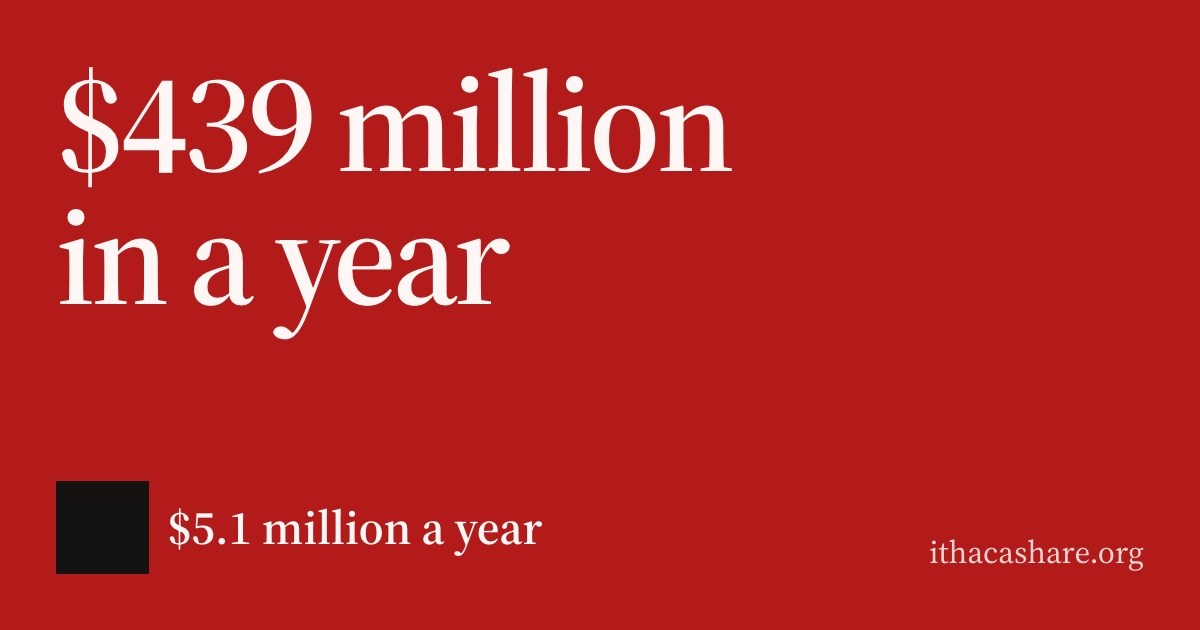
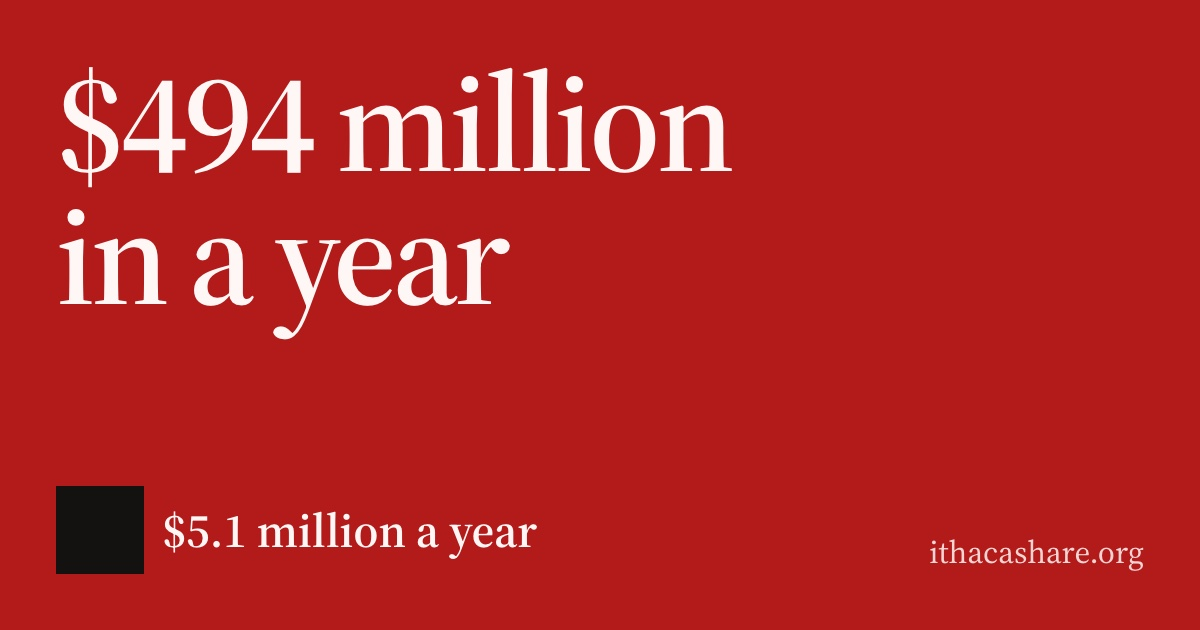
Update to fiscal 2026: Cornell's $13.6B endowment and $494M payout, Yale and Princeton endowments, option now about $2.4M; 2027 city budget adopted; county review still under way, lapsed permit moratorium removed; trustees' November 6 statement on victim advocates

Changed region(s): [[0.0308, 0.754, 0.4625, 0.9048], [0.1542, 0.1206, 0.2775, 0.2714]]

diff --git a/public/wastewater/index.html b/public/wastewater/index.html
@@ -2,11 +2,11 @@
 <html lang="en">
 <head>
   <title>Ithaca Share: Cornell and Ithaca’s wastewater plant</title>
-  <meta name="description" content="In fiscal 2025 Cornell’s endowment paid out $439 million. Cornell’s voluntary payments to Ithaca governments are about $5.1 million a year, drawn to the same scale.">
-  <meta name="updated" content="October 23, 2026">
+  <meta name="description" content="In fiscal 2026 Cornell’s endowment paid out $494 million. Cornell’s voluntary payments to Ithaca governments are about $5.1 million a year, drawn to the same scale.">
+  <meta name="updated" content="November 10, 2026">
   <link rel="canonical" href="https://ithacashare.org/wastewater/">
-  <meta property="og:image" content="https://ithacashare.org/wastewater/og.jpg?v=8">
-  <meta property="og:image:alt" content="A red field for $439 million paid out in fiscal 2025 with a black square, drawn to scale, for $5.1 million a year.">
+  <meta property="og:image" content="https://ithacashare.org/wastewater/og.jpg?v=9">
+  <meta property="og:image:alt" content="A red field for $494 million paid out in fiscal 2026 with a black square, drawn to scale, for $5.1 million a year.">
 </head>
 <body>
   <nav data-include="nav"></nav>
@@ -16,22 +16,22 @@
       <figure class="poster">
         <div>
           <h1>
-            $439&nbsp;million in a year.<sup class="fn"><a href="#s9" aria-label="Source 9: Cornell University statement, October 28, 2025">9</a></sup><br>
+            $494&nbsp;million in a year.<sup class="fn"><a href="#s9" aria-label="Source 9: Cornell University statement, October 29, 2026">9</a></sup><br>
             No wastewater plant.<sup class="fn"><a href="#s1" aria-label="Source 1: Cornell Environment, Health and Safety">1</a></sup>
           </h1>
-          <p class="poster-sub">Paid out by Cornell’s $11.8&nbsp;billion endowment in fiscal&nbsp;2025.</p>
+          <p class="poster-sub">Paid out by Cornell’s $13.6&nbsp;billion endowment in fiscal&nbsp;2026.</p>
         </div>
         <div class="poster-foot">
           <div class="poster-dot" aria-hidden="true"></div>
           <p><span class="long">This square, at the same scale, is the $5.1&nbsp;million a year Cornell pays Ithaca’s city, town, and schools.</span><span class="short">$5.1&nbsp;million a year, same scale</span></p>
         </div>
         <figcaption class="sr-only">
-          A red square for the $439&nbsp;million Cornell’s endowment paid out in fiscal&nbsp;2025, and a black
-          square about 1/86 of its area for the $5.1&nbsp;million a year Cornell pays Ithaca’s city, town,
+          A red square for the $494&nbsp;million Cornell’s endowment paid out in fiscal&nbsp;2026, and a black
+          square about 1/97 of its area for the $5.1&nbsp;million a year Cornell pays Ithaca’s city, town,
           and schools.
         </figcaption>
       </figure>
-      <p class="poster-note">Paid out by Cornell’s $11.8&nbsp;billion endowment in fiscal&nbsp;2025. The black square, at the same scale, is the $5.1&nbsp;million a year Cornell pays Ithaca’s city, town, and schools.</p>
+      <p class="poster-note">Paid out by Cornell’s $13.6&nbsp;billion endowment in fiscal&nbsp;2026. The black square, at the same scale, is the $5.1&nbsp;million a year Cornell pays Ithaca’s city, town, and schools.</p>
       <div class="print-only print-qr">
         <img src="/wastewater/qr.svg" alt="" width="96" height="96">
         <span>ithacashare.org/wastewater</span>
@@ -39,10 +39,10 @@
     </div>
 
     <div class="column">
-      <p class="ask"><strong>One option:</strong> about $2.9&nbsp;million a year more from Cornell, for the plant’s repairs. That would bring Cornell’s payments to Yale’s share of endowment.<sup class="fn"><a href="#s15" aria-label="Source 15: Calculation">15</a></sup></p>
+      <p class="ask"><strong>One option:</strong> about $2.4&nbsp;million a year more from Cornell, for the plant’s repairs. That would bring Cornell’s payments to Yale’s share of endowment.<sup class="fn"><a href="#s15" aria-label="Source 15: Calculation">15</a></sup></p>
       <p class="cta">
         <a class="button" data-write href="mailto:council@cityofithaca.org">Write to Common Council</a>
-        <span>Budget vote: November&nbsp;4, 2026.<sup class="fn"><a href="#s3" aria-label="Source 3: Ithaca Times, October 12, 2026">3</a></sup></span>
+        <span>Common Council adopted the 2027 budget on November&nbsp;4, 2026.<sup class="fn"><a href="#s3" aria-label="Source 3: City of Ithaca, November 5, 2026">3</a></sup></span>
       </p>
 
 
@@ -63,9 +63,9 @@
             <tr><th scope="col">University</th><th scope="col">Local payment</th><th scope="col">Share of endowment</th></tr>
           </thead>
           <tbody>
-            <tr class="yale"><th scope="row">Yale</th><td data-label="Local payment">$30M of $44.1B<sup class="fn"><a href="#s7" aria-label="Source 7: Yale News, March 6, 2026">7</a>,<a href="#s8" aria-label="Source 8: Yale News, October 24, 2025">8</a></sup></td><td data-label="Share"><span class="bar"></span>0.07%</td></tr>
-            <tr class="cornell this"><th scope="row">Cornell</th><td data-label="Local payment">$5.1M of $11.8B<sup class="fn"><a href="#s4" aria-label="Source 4: Cornell Chronicle, October 13, 2023">4</a>,<a href="#s5" aria-label="Source 5: Cornell Chronicle, January 22, 2026">5</a>,<a href="#s6" aria-label="Source 6: Cornell Chronicle, June 25, 2024">6</a>,<a href="#s9" aria-label="Source 9: Cornell University statement, October 28, 2025">9</a></sup></td><td data-label="Share"><span class="bar"></span>0.04%</td></tr>
-            <tr class="princeton"><th scope="row">Princeton</th><td data-label="Local payment">$5.9M of $36.4B<sup class="fn"><a href="#s10" aria-label="Source 10: Princeton University, March 26, 2026">10</a>,<a href="#s11" aria-label="Source 11: Princeton Alumni Weekly">11</a></sup></td><td data-label="Share"><span class="bar"></span>0.02%</td></tr>
+            <tr class="yale"><th scope="row">Yale</th><td data-label="Local payment">$30M of $54.5B<sup class="fn"><a href="#s7" aria-label="Source 7: Yale News, March 6, 2026">7</a>,<a href="#s8" aria-label="Source 8: Yale News, October 27, 2026">8</a></sup></td><td data-label="Share"><span class="bar"></span>0.055%</td></tr>
+            <tr class="cornell this"><th scope="row">Cornell</th><td data-label="Local payment">$5.1M of $13.6B<sup class="fn"><a href="#s4" aria-label="Source 4: Cornell Chronicle, October 13, 2023">4</a>,<a href="#s5" aria-label="Source 5: Cornell Chronicle, January 22, 2026">5</a>,<a href="#s6" aria-label="Source 6: Cornell Chronicle, June 25, 2024">6</a>,<a href="#s9" aria-label="Source 9: Cornell University statement, October 29, 2026">9</a></sup></td><td data-label="Share"><span class="bar"></span>0.037%</td></tr>
+            <tr class="princeton"><th scope="row">Princeton</th><td data-label="Local payment">$5.9M of $42.3B<sup class="fn"><a href="#s10" aria-label="Source 10: Princeton University, March 26, 2026">10</a>,<a href="#s11" aria-label="Source 11: Princeton Alumni Weekly, October 16, 2026">11</a></sup></td><td data-label="Share"><span class="bar"></span>0.014%</td></tr>
           </tbody>
         </table>
       </section>
@@ -83,10 +83,10 @@
           <dd>It says it spends more than $30&nbsp;million a year on community priorities, counting these payments, TCAT buses, housing, nonprofits, and campus services.<sup class="fn"><a href="#s6" aria-label="Source 6: Cornell Chronicle, June 25, 2024">6</a></sup> Cornell is one of TCAT’s three equal funding partners, and TCAT staff have said 70% of riders are tied to Cornell.<sup class="fn"><a href="#s16" aria-label="Source 16: Ithaca Times, February 15, 2023">16</a></sup></dd>
 
           <dt>Isn’t the endowment restricted?</dt>
-          <dd>Mostly. $1.8&nbsp;billion has no donor restrictions.<sup class="fn"><a href="#s12" aria-label="Source 12: Cornell University Consolidated Financial Statements, fiscal 2025">12</a></sup></dd>
+          <dd>Mostly. $2.0&nbsp;billion has no donor restrictions.<sup class="fn"><a href="#s12" aria-label="Source 12: Cornell University Consolidated Financial Statements, fiscal 2026">12</a></sup></dd>
 
           <dt>How big is the ask next to Cornell’s money?</dt>
-          <dd>The whole $100&nbsp;million repair is under a quarter of one year’s endowment payout.<sup class="fn"><a href="#s2" aria-label="Source 2: The Ithaca Voice, August 18, 2025">2</a>,<a href="#s9" aria-label="Source 9: Cornell University statement, October 28, 2025">9</a></sup> The extra $2.9&nbsp;million a year is about two and a half days of that payout.<sup class="fn"><a href="#s15" aria-label="Source 15: Calculation">15</a></sup> Cornell’s fundraising campaign closed in June at nearly $6.8&nbsp;billion in gifts and commitments, $1.1&nbsp;billion of it in the final year.<sup class="fn"><a href="#s17" aria-label="Source 17: Cornell Chronicle, August 27, 2026">17</a></sup></dd>
+          <dd>The whole $100&nbsp;million repair is about a fifth of one year’s endowment payout.<sup class="fn"><a href="#s2" aria-label="Source 2: The Ithaca Voice, August 18, 2025">2</a>,<a href="#s9" aria-label="Source 9: Cornell University statement, October 29, 2026">9</a></sup> The extra $2.4&nbsp;million a year is under two days of that payout.<sup class="fn"><a href="#s15" aria-label="Source 15: Calculation">15</a></sup> Cornell’s fundraising campaign closed in June 2026 at nearly $6.8&nbsp;billion in gifts and commitments, $1.1&nbsp;billion of it in the final year.<sup class="fn"><a href="#s17" aria-label="Source 17: Cornell Chronicle, August 27, 2026">17</a></sup></dd>
 
           <dt>What would Cornell owe if its city property were taxed?</dt>
           <dd>About $15.5 to $32.5&nbsp;million a year.<sup class="fn"><a href="#s13" aria-label="Source 13: The Ithacan, October 4, 2023">13</a></sup> Boston asks large nonprofits for 25% of what they’d owe. For Cornell, that would be about $8.25&nbsp;million a year to the city.<sup class="fn"><a href="#s16" aria-label="Source 16: Ithaca Times, February 15, 2023">16</a></sup></dd>
@@ -101,8 +101,9 @@
 
       <section class="secondary">
         <h2>Method</h2>
-        <p>The squares compare one year to one year, using the city’s base payment before inflation and the school district’s $650,000 base before its scheduled increases, so Cornell’s payments this year are somewhat higher than $5.1&nbsp;million. Every source has an archived copy.</p>
+        <p>The squares compare one year to one year, using the city’s base payment before inflation and the school district’s $650,000 base before its scheduled increases, so Cornell’s payments in 2026 are somewhat higher than $5.1&nbsp;million. Every source has an archived copy except sources 3, 9, and 12.</p>
         <h3>Corrections</h3>
+        <p>November&nbsp;10, 2026: Updated to fiscal&nbsp;2026 figures: Cornell’s endowment, $13.6&nbsp;billion, and its payout, $494&nbsp;million (source&nbsp;9); Yale’s endowment, $54.5&nbsp;billion (source&nbsp;8); Princeton’s, $42.3&nbsp;billion (source&nbsp;11); and Cornell’s funds without donor restrictions, $2.0&nbsp;billion (source&nbsp;12). The option fell from about $2.9&nbsp;million to about $2.4&nbsp;million a year, because Yale’s endowment grew faster than Cornell’s. Replaced the budget vote date with the result (source&nbsp;3).</p>
         <p>October&nbsp;23, 2026: Removed “so a gift from Cornell would lower it for everyone,” a prediction, and “can’t fund salaries or operations,” which had no source.</p>
         <p>October&nbsp;19, 2026: Noted that the $5.1&nbsp;million uses base amounts, and that Cornell’s school payment has risen since January 2026 (source&nbsp;5). Removed “Fees don’t cover the plant’s repairs,” which had no source; source&nbsp;2 says the repair bill goes to ratepayers. Removed the claim that Cornell pays a third of TCAT’s cost, since Cornell also pays fares on top of its partner share. Attributed the $2.6&nbsp;million fees figure to Cornell’s own report.</p>
       </section>
@@ -119,8 +120,8 @@
             <a class="link" href="https://ithacavoice.org/2025/08/local-officials-planned-to-invest-100m-into-ithacas-aging-wastewater-plant-one-meeting-with-state-regulators-may-have-doubled-that/#:~:text=planned%20to%20invest%20%24100M">The Ithaca Voice, August 18, 2025</a><span class="nowrap">&nbsp;· <a class="archived" href="https://web.archive.org/web/20261017010158/https://ithacavoice.org/2025/08/local-officials-planned-to-invest-100m-into-ithacas-aging-wastewater-plant-one-meeting-with-state-regulators-may-have-doubled-that/" aria-label="Archived copy: The Ithaca Voice, August 18, 2025">archived</a></span>
           </li>
           <li id="s3">
-            <p>Capital plan October&nbsp;20, 2026; council discussion October&nbsp;28; budget vote November&nbsp;4.</p>
-            <a class="link" href="https://www.ithaca.com/news/ithaca-city-officials-unveil-proposed-2027-budget-close-8m-deficit-under-state-tax-cap/article_6fb6fc7a-166f-44af-a2ed-c47c57e71c59.html#:~:text=Capital%20Improvement%20Plan%20will%20be%20presented">Ithaca Times, October&nbsp;12, 2026</a><span class="nowrap">&nbsp;· <a class="archived" href="https://web.archive.org/web/20261017011618/https://www.ithaca.com/news/ithaca-city-officials-unveil-proposed-2027-budget-close-8m-deficit-under-state-tax-cap/article_6fb6fc7a-166f-44af-a2ed-c47c57e71c59.html" aria-label="Archived copy: Ithaca Times, October&nbsp;12, 2026">archived</a></span>
+            <p>“The City of Ithaca adopted its 2027 Budget on November 4 with unanimous support from Common Council.”</p>
+            <a class="link" href="https://www.cityofithacany.gov/m/newsflash/Home/Detail/1541#:~:text=adopted%20its%202027%20Budget%20on%20November%204">City of Ithaca, November&nbsp;5, 2026</a>
           </li>
           <li id="s4">
             <p>$4&nbsp;million a year to the City of Ithaca, adjusted for inflation, through June&nbsp;2039.</p>
@@ -139,24 +140,24 @@
             <a class="link" href="https://news.yale.edu/2026/03/06/yale-and-new-haven-announce-new-commitment-and-plan-support-city-finances-advance-shared#:~:text=nearly%20%2430%20million">Yale News, March 6, 2026</a><span class="nowrap">&nbsp;· <a class="archived" href="https://web.archive.org/web/20261017011021/https://news.yale.edu/2026/03/06/yale-and-new-haven-announce-new-commitment-and-plan-support-city-finances-advance-shared" aria-label="Archived copy: Yale News, March 6, 2026">archived</a></span>
           </li>
           <li id="s8">
-            <p>Yale endowment of $44.1&nbsp;billion at June&nbsp;30, 2025.</p>
-            <a class="link" href="https://news.yale.edu/2025/10/24/yale-reports-investment-return-fiscal-2025#:~:text=increased%20to%20%2444.1%20billion">Yale News, October&nbsp;24, 2025</a><span class="nowrap">&nbsp;· <a class="archived" href="https://web.archive.org/web/20261017013013/https://news.yale.edu/2025/10/24/yale-reports-investment-return-fiscal-2025" aria-label="Archived copy: Yale News, October&nbsp;24, 2025">archived</a></span>
+            <p>Yale endowment of $54.5&nbsp;billion at June&nbsp;30, 2026.</p>
+            <a class="link" href="https://news.yale.edu/2026/10/27/yale-reports-investment-return-fiscal-2026#:~:text=increased%20to%20%2454.5%20billion">Yale News, October&nbsp;27, 2026</a><span class="nowrap">&nbsp;· <a class="archived" href="https://web.archive.org/web/20261101181641/https://news.yale.edu/2026/10/27/yale-reports-investment-return-fiscal-2026" aria-label="Archived copy: Yale News, October&nbsp;27, 2026">archived</a></span>
           </li>
           <li id="s9">
-            <p>Endowment of $11.8&nbsp;billion at June&nbsp;30, 2025, which contributed $439&nbsp;million to operations in fiscal&nbsp;2025.</p>
-            <a class="link" href="https://statements.cornell.edu/2025/20251028-university-endowment.cfm#:~:text=the%20endowment%20contributed%20%24439%20million">Cornell University statement, October&nbsp;28, 2025</a><span class="nowrap">&nbsp;· <a class="archived" href="https://web.archive.org/web/20261003115607/https://statements.cornell.edu/2025/20251028-university-endowment.cfm" aria-label="Archived copy: Cornell University statement, October&nbsp;28, 2025">archived</a></span>
+            <p>Endowment of approximately $13.6&nbsp;billion at June&nbsp;30, 2026, which contributed $494&nbsp;million to operations in fiscal&nbsp;2026.</p>
+            <a class="link" href="https://statements.cornell.edu/2026/20261029-university-endowment.cfm#:~:text=the%20endowment%20contributed%20%24494%20million">Cornell University statement, October&nbsp;29, 2026</a>
           </li>
           <li id="s10">
             <p>Princeton paid the Municipality of Princeton $5.9&nbsp;million in 2025.</p>
             <a class="link" href="https://www.princeton.edu/news/2026/03/26/university-contributions-princeton-municipality-2025-summary#:~:text=totaling%20%245.9%20million">Princeton University, March 26, 2026</a><span class="nowrap">&nbsp;· <a class="archived" href="https://web.archive.org/web/20261002124916/https://www.princeton.edu/news/2026/03/26/university-contributions-princeton-municipality-2025-summary" aria-label="Archived copy: Princeton University, March 26, 2026">archived</a></span>
           </li>
           <li id="s11">
-            <p>Princeton endowment of $36.4&nbsp;billion at June&nbsp;30, 2025.</p>
-            <a class="link" href="https://paw.princeton.edu/article/princeton-endowment-earns-11-return-reaches-364-billion#:~:text=The%20endowment%20totaled%20%2436.4%20billion">Princeton Alumni Weekly</a><span class="nowrap">&nbsp;· <a class="archived" href="https://web.archive.org/web/20261017013209/https://paw.princeton.edu/article/princeton-endowment-earns-11-return-reaches-364-billion" aria-label="Archived copy: Princeton Alumni Weekly">archived</a></span>
+            <p>Princeton endowment of $42.3&nbsp;billion at June&nbsp;30, 2026.</p>
+            <a class="link" href="https://paw.princeton.edu/article/princetons-endowment-returns-for-2026-grows-to-42-billion#:~:text=value%20to%20%2442.3%20billion">Princeton Alumni Weekly, October&nbsp;16, 2026</a><span class="nowrap">&nbsp;· <a class="archived" href="https://web.archive.org/web/20261020014858/https://paw.princeton.edu/article/princetons-endowment-returns-for-2026-grows-to-42-billion" aria-label="Archived copy: Princeton Alumni Weekly, October&nbsp;16, 2026">archived</a></span>
           </li>
           <li id="s12">
-            <p>$1.8&nbsp;billion of the endowment has no donor restrictions (funds functioning as endowment), June&nbsp;30, 2025, Note&nbsp;12.</p>
-            <a class="link" href="https://finance.cornell.edu/sites/default/files/cornell-financial-report-FY2025.pdf">Cornell University Consolidated Financial Statements, fiscal&nbsp;2025</a><span class="nowrap">&nbsp;· <a class="archived" href="https://web.archive.org/web/20261017012711/https://finance.cornell.edu/sites/default/files/cornell-financial-report-FY2025.pdf" aria-label="Archived copy: Cornell University Consolidated Financial Statements, fiscal&nbsp;2025">archived</a></span>
+            <p>$2.0&nbsp;billion of the endowment has no donor restrictions (funds functioning as endowment), June&nbsp;30, 2026, Note&nbsp;12.</p>
+            <a class="link" href="https://finance.cornell.edu/sites/default/files/cornell-financial-report-FY2026.pdf">Cornell University Consolidated Financial Statements, fiscal&nbsp;2026</a>
           </li>
           <li id="s13">
             <p>$2.7&nbsp;billion in tax-exempt property on the 2022 assessment roll; about $32.5&nbsp;million at the 2023 rate, or about $15.5&nbsp;million with the rate adjusted.</p>
@@ -167,7 +168,7 @@
             <a class="link" href="https://news.cornell.edu/stories/2024/04/snapshot-highlights-universitys-role-local-economy#:~:text=%242.6%20million%20for%20water">Cornell Chronicle, April 3, 2024</a><span class="nowrap">&nbsp;· <a class="archived" href="https://web.archive.org/web/20261017010507/https://news.cornell.edu/stories/2024/04/snapshot-highlights-universitys-role-local-economy" aria-label="Archived copy: Cornell Chronicle, April 3, 2024">archived</a></span>
           </li>
           <li id="s15">
-            <p>Calculation. Yale’s share: $30&nbsp;million ÷ $44.1&nbsp;billion = 0.068% (sources 7 and 8). Cornell at that share: 0.068% × $11.8&nbsp;billion ≈ $8.0&nbsp;million a year (source 9), about $2.9&nbsp;million more than $5.1&nbsp;million (sources 4 to 6). Yale’s payment is “nearly” $30&nbsp;million, Cornell’s city payment rises with inflation, and its school payment rises each year to $874,000 by 2030–31 (source 5), so the difference may be slightly smaller. In days: $439&nbsp;million ÷ 365 ≈ $1.2&nbsp;million a day (source 9); $2.9&nbsp;million ÷ $1.2&nbsp;million ≈ 2.4 days. The repair: $100&nbsp;million ÷ $439&nbsp;million ≈ 23% (sources 2 and 9).</p>
+            <p>Calculation. Yale’s share: $30&nbsp;million ÷ $54.5&nbsp;billion = 0.055% (sources 7 and 8). Cornell at that share: 0.055% × $13.6&nbsp;billion ≈ $7.5&nbsp;million a year (source 9), about $2.4&nbsp;million more than $5.1&nbsp;million (sources 4 to 6). Yale’s payment is “nearly” $30&nbsp;million, Cornell’s city payment rises with inflation, and its school payment rises each year to $874,000 by 2030–31 (source 5), so the difference may be slightly smaller. In days: $494&nbsp;million ÷ 365 ≈ $1.35&nbsp;million a day (source 9); $2.4&nbsp;million ÷ $1.35&nbsp;million ≈ 1.8 days. The repair: $100&nbsp;million ÷ $494&nbsp;million ≈ 20% (sources 2 and 9).</p>
           </li>
           <li id="s16">
             <p>The City of Ithaca, Cornell, and Tompkins County are equal partners in TCAT; according to TCAT staff, 70% of riders are associated with Cornell. Boston asks nonprofits with more than $15&nbsp;million in property for 25% of the taxes they’re exempt from; for Cornell’s city property, that minimum would be $8.25&nbsp;million for the city.</p>

diff --git a/public/fraternity-houses/index.html b/public/fraternity-houses/index.html
@@ -3,7 +3,7 @@
 <head>
   <title>Ithaca Share: Cornell’s tax-exempt fraternity houses</title>
   <meta name="description" content="Cornell owns seven recognized fraternity houses in Ithaca, exempt from property tax as educational. One option: pay what they would owe, about $320,000 a year, to the city, county, and school district.">
-  <meta name="updated" content="October 23, 2026">
+  <meta name="updated" content="November 10, 2026">
   <link rel="canonical" href="https://ithacashare.org/fraternity-houses/">
   <meta property="og:image" content="https://ithacashare.org/fraternity-houses/og.jpg?v=4">
   <meta property="og:image:alt" content="Seven squares for seven Cornell-owned fraternity houses, tax-exempt as educational.">
@@ -39,7 +39,7 @@
       <p class="ask"><strong>One option:</strong> Cornell pays what the seven houses would owe if taxed, about $320,000 a year, to the city, county, and school district, without waiting for the county’s review.<sup class="fn"><a href="#s10" aria-label="Source 10: Calculation">10</a></sup></p>
       <p class="cta">
         <a class="button" data-write href="mailto:trustees@cornell.edu">Write to Cornell</a>
-        <span>County review directed October&nbsp;6, 2026.<sup class="fn"><a href="#s4" aria-label="Source 4: Tompkins County Legislature, October 6, 2026">4</a></sup> City permit moratorium runs through November&nbsp;5, 2026.<sup class="fn"><a href="#s6" aria-label="Source 6: City of Ithaca, October 8, 2026">6</a></sup></span>
+        <span>County review directed October&nbsp;6, 2026.<sup class="fn"><a href="#s4" aria-label="Source 4: Tompkins County Legislature, October 6, 2026">4</a></sup> Still under way as of November&nbsp;5, 2026.<sup class="fn"><a href="#s6" aria-label="Source 6: Tompkins County Legislature, November 5, 2026">6</a></sup></span>
       </p>
 
       <section class="peers">
@@ -92,7 +92,7 @@
 
       <section class="secondary">
         <h2>Method</h2>
-        <p>The seven are every address on Cornell’s chapter list that the county’s 2026 final roll shows as owned by Cornell, classed Inn/lodge, and exempt as educational.<sup class="fn"><a href="#s1" aria-label="Source 1: Tompkins County, 2026 final assessment roll, City of Ithaca">1</a>,<a href="#s3" aria-label="Source 3: Cornell Sorority and Fraternity Life, Organization Scorecard">3</a></sup> Values are the county’s assessed values, the same on the 2025 and 2026 rolls; the 2026 roll assesses at 95% of full value, so full value is about $10.3&nbsp;million.<sup class="fn"><a href="#s1" aria-label="Source 1: Tompkins County, 2026 final assessment roll, City of Ithaca">1</a>,<a href="#s2" aria-label="Source 2: Tompkins County, 2025 final assessment roll, City of Ithaca">2</a></sup> A news count of eight houses and $12.85&nbsp;million matches the roll if it includes 1 Forest Park Lane, which Cornell lists as a residence hall, and 14 South Avenue, neither on Cornell’s chapter list, and leaves out 124 Triphammer Road.<sup class="fn"><a href="#s5" aria-label="Source 5: CNY Central, October 20, 2026">5</a>,<a href="#s12" aria-label="Source 12: Cornell Residential Life, 1 Forest Park Lane">12</a></sup> Legislators discussed whether the assessments reflect the properties’ values.<sup class="fn"><a href="#s4" aria-label="Source 4: Tompkins County Legislature, October 6, 2026">4</a></sup> No individuals named. Every source has an archived copy.</p>
+        <p>The seven are every address on Cornell’s chapter list that the county’s 2026 final roll shows as owned by Cornell, classed Inn/lodge, and exempt as educational.<sup class="fn"><a href="#s1" aria-label="Source 1: Tompkins County, 2026 final assessment roll, City of Ithaca">1</a>,<a href="#s3" aria-label="Source 3: Cornell Sorority and Fraternity Life, Organization Scorecard">3</a></sup> Values are the county’s assessed values, the same on the 2025 and 2026 rolls; the 2026 roll assesses at 95% of full value, so full value is about $10.3&nbsp;million.<sup class="fn"><a href="#s1" aria-label="Source 1: Tompkins County, 2026 final assessment roll, City of Ithaca">1</a>,<a href="#s2" aria-label="Source 2: Tompkins County, 2025 final assessment roll, City of Ithaca">2</a></sup> A news count of eight houses and $12.85&nbsp;million matches the roll if it includes 1 Forest Park Lane, which Cornell lists as a residence hall, and 14 South Avenue, neither on Cornell’s chapter list, and leaves out 124 Triphammer Road.<sup class="fn"><a href="#s5" aria-label="Source 5: CNY Central, October 20, 2026">5</a>,<a href="#s12" aria-label="Source 12: Cornell Residential Life, 1 Forest Park Lane">12</a></sup> Legislators discussed whether the assessments reflect the properties’ values.<sup class="fn"><a href="#s4" aria-label="Source 4: Tompkins County Legislature, October 6, 2026">4</a></sup> No individuals named. Every source has an archived copy except source&nbsp;6.</p>
       </section>
 
       <section class="secondary">
@@ -119,8 +119,8 @@
             <a class="link" href="https://cnycentral.com/news/local/tompkins-county-reviews-tax-exemptions-for-cornell-fraternity-houses#:~:text=classified%20as%20educational">CNY Central, October&nbsp;20, 2026</a><span class="nowrap">&nbsp;· <a class="archived" href="https://web.archive.org/web/20261023165329/https://cnycentral.com/news/local/tompkins-county-reviews-tax-exemptions-for-cornell-fraternity-houses" aria-label="Archived copy: CNY Central, October 20, 2026">archived</a></span>
           </li>
           <li id="s6">
-            <p>The city “will temporarily halt the issuance of new permits for certain events and activities regulated under City Code, including special events, assemblies and parades, Commons permits, and noise permits for Cornell University and affiliated fraternities, sororities, and student organizations.” Posted October&nbsp;8, 2026; it “takes effect immediately and remains in place through November 5, 2026, unless extended or modified by further action of Common Council.”</p>
-            <a class="link" href="https://www.cityofithacany.gov/m/newsflash/Home/Detail/1510#:~:text=November%205%2C%202026">City of Ithaca, October&nbsp;8, 2026</a><span class="nowrap">&nbsp;· <a class="archived" href="https://web.archive.org/web/20261021231828/https://www.cityofithacany.gov/m/newsflash/Home/Detail/1510" aria-label="Archived copy: City of Ithaca, October 8, 2026">archived</a></span>
+            <p>The County Attorney “reported that his office continues to work on several matters, including” … “the legal status of property tax exemptions for Cornell-affiliated Greek-letter housing.”</p>
+            <a class="link" href="https://www.tompkinscountyny.gov/News-articles/Highlights-of-the-11526-Tompkins-County-Legislature-meeting#:~:text=Greek%2Dletter%20housing">Tompkins County Legislature, highlights of the November&nbsp;5, 2026 meeting</a>
           </li>
           <li id="s7">
             <p>“The tax rate for general purposes, for the fiscal year 2026, be, and the same hereby is, established and fixed at $12.24 per $1,000 of taxable valuation as shown, certified and extended against the respective properties on the 2025 Tax Roll.”</p>

diff --git a/public/survivor-services/index.html b/public/survivor-services/index.html
@@ -3,7 +3,7 @@
 <head>
   <title>Ithaca Share: Where Cornell refers survivors after hours</title>
   <meta name="description" content="Cornell’s victim advocates work weekdays and are not a crisis service. After hours, Cornell refers survivors to the Advocacy Center of Tompkins County’s 24-hour hotline.">
-  <meta name="updated" content="October 23, 2026">
+  <meta name="updated" content="November 10, 2026">
   <link rel="canonical" href="https://ithacashare.org/survivor-services/">
   <meta property="og:image" content="https://ithacashare.org/survivor-services/og.jpg?v=1">
   <meta property="og:image:alt" content="Weekdays, 9 to 5. Not a crisis service. Cornell’s own victim advocates.">
@@ -65,7 +65,7 @@
         <ul class="plain">
           <li>Rapes on campus reported under federal law: 28 in 2023, 23 in 2024, 6 in 2025.<sup class="fn"><a href="#s3" aria-label="Source 3: Cornell, Campus Watch 2026">3</a></sup></li>
           <li>In Cornell’s 2025 survey, 35% of undergraduate women reported nonconsensual sexual contact, up from 23% in 2023. 15% responded, and Cornell says to read the results with greater caution than earlier surveys.<sup class="fn"><a href="#s4" aria-label="Source 4: Cornell Chronicle, November 4, 2025">4</a></sup></li>
-          <li>On October&nbsp;13, 2026, Cornell announced added victim advocate support on campus.<sup class="fn"><a href="#s5" aria-label="Source 5: Cornell University statement, October 13, 2026">5</a></sup></li>
+          <li>On October&nbsp;13, 2026, Cornell announced added victim advocate support on campus.<sup class="fn"><a href="#s5" aria-label="Source 5: Cornell University statement, October 13, 2026">5</a></sup> On November&nbsp;6, 2026, its Board of Trustees said the administration’s steps included “hiring more victim advocates.”<sup class="fn"><a href="#s6" aria-label="Source 6: Cornell Board of Trustees statement, November 6, 2026">6</a></sup> On November&nbsp;10, 2026, Cornell’s page still listed the advocates’ hours as weekdays, 9&nbsp;a.m. to 5&nbsp;p.m.<sup class="fn"><a href="#s1" aria-label="Source 1: Cornell Health, Victim Advocacy">1</a></sup></li>
         </ul>
       </section>
 
@@ -84,7 +84,7 @@
         <ol class="sources">
           <li id="s1">
             <p>Cornell’s victim advocates serve “members of the Cornell community,” Monday through Friday, 9&nbsp;a.m. to 5&nbsp;p.m., and are “not a crisis service.”</p>
-            <a class="link" href="https://health.cornell.edu/VA#:~:text=not%20a%20crisis%20service">Cornell Health, Victim Advocacy</a><span class="nowrap">&nbsp;· <a class="archived" href="https://web.archive.org/web/20261019171623/https://health.cornell.edu/services/victim-advocacy" aria-label="Archived copy: Cornell Health, Victim Advocacy">archived</a></span>
+            <a class="link" href="https://health.cornell.edu/VA#:~:text=not%20a%20crisis%20service">Cornell Health, Victim Advocacy</a><span class="nowrap">&nbsp;· <a class="archived" href="https://web.archive.org/web/20261026080819/https://health.cornell.edu/services/victim-advocacy" aria-label="Archived copy: Cornell Health, Victim Advocacy">archived</a></span>
           </li>
           <li id="s2">
             <p>Cornell lists “The Tompkins County Advocacy Center (off campus resource for students, staff, and faculty)” with its 24-hour hotline.</p>
@@ -101,6 +101,10 @@
           <li id="s5">
             <p>Added victim advocate support on campus.</p>
             <a class="link" href="https://statements.cornell.edu/2026/20261013-immediate-measures.cfm#:~:text=all%20related%20Cornell%20policies%20and%20practices">Cornell University statement, October&nbsp;13, 2026</a><span class="nowrap">&nbsp;· <a class="archived" href="https://web.archive.org/web/20261019172021/https://statements.cornell.edu/2026/20261013-immediate-measures.cfm" aria-label="Archived copy: Cornell University statement, October&nbsp;13, 2026">archived</a></span>
+          </li>
+          <li id="s6">
+            <p>The administration has “already taken several important steps to this end, including adding staff to the Cornell Office of Civil Rights, expanding in-person sexual assault prevention education, and hiring more victim advocates.”</p>
+            <a class="link" href="https://statements.cornell.edu/2026/20261106-vote.cfm#:~:text=hiring%20more%20victim%20advocates">Cornell Board of Trustees statement, November&nbsp;6, 2026</a><span class="nowrap">&nbsp;· <a class="archived" href="https://web.archive.org/web/20261107193420/https://statements.cornell.edu/2026/20261106-vote.cfm" aria-label="Archived copy: Cornell Board of Trustees statement, November&nbsp;6, 2026">archived</a></span>
           </li>
         </ol>
       </section>

diff --git a/public/index.html b/public/index.html
@@ -3,7 +3,7 @@
 <head>
   <title>Ithaca Share</title>
   <meta name="description" content="Sourced, one-page proposals for what Cornell could fund in Ithaca.">
-  <meta name="updated" content="October 23, 2026">
+  <meta name="updated" content="November 10, 2026">
   <link rel="canonical" href="https://ithacashare.org/">
   <meta property="og:image" content="https://ithacashare.org/og.jpg?v=9">
   <meta property="og:image:alt" content="Ithaca Share: what Cornell could fund in Ithaca, with sources.">
@@ -22,8 +22,8 @@
           <a href="/wastewater/">
             <span class="card-figure card-ww" aria-hidden="true"><span></span></span>
             <h2>Wastewater plant</h2>
-            <p class="card-stat">$439&nbsp;million paid out in a year. $5.1&nbsp;million to Ithaca.</p>
-            <p>Cornell says it can’t operate without the plant. One option: about $2.9&nbsp;million a year more for its repairs.</p>
+            <p class="card-stat">$494&nbsp;million paid out in a year. $5.1&nbsp;million to Ithaca.</p>
+            <p>Cornell says it can’t operate without the plant. One option: about $2.4&nbsp;million a year more for its repairs.</p>
             <span class="card-more" aria-hidden="true">Read the proposal</span>
           </a>
         </li>

diff --git a/public/styles.css b/public/styles.css
@@ -391,16 +391,16 @@ section h2 + dl {
 
 .bars .bar {
   display: inline-block;
-  width: calc(var(--share) / 0.068 * 8rem);
+  width: calc(var(--share) / 0.055 * 8rem);
   height: 0.75rem;
   margin-right: 0.6rem;
   vertical-align: middle;
   background: var(--ink);
 }
 
-.bars .yale { --share: 0.068; }
-.bars .cornell { --share: 0.043; }
-.bars .princeton { --share: 0.016; }
+.bars .yale { --share: 0.055; }
+.bars .cornell { --share: 0.037; }
+.bars .princeton { --share: 0.014; }
 
 .bars .this .bar {
   background: var(--cornell-red);
@@ -543,8 +543,8 @@ ol.sources .link {
 }
 
 .poster {
-  /* Payout / voluntary payments: $439,000,000 / $5,075,000. Edit both to resize the square. */
-  --pay-ratio: sqrt(439000000 / 5075000);
+  /* Payout / voluntary payments: $494,000,000 / $5,075,000. Edit both to resize the square. */
+  --pay-ratio: sqrt(494000000 / 5075000);
   --pad: clamp(1.25rem, 4svw, 2.75rem);
   container-type: inline-size;
   aspect-ratio: 1;
@@ -711,7 +711,7 @@ ol.sources .link {
 }
 
 .card-ww span {
-  width: calc((8rem - 1.2rem) / sqrt(439000000 / 5075000));
+  width: calc((8rem - 1.2rem) / sqrt(494000000 / 5075000));
   aspect-ratio: 1;
   background: var(--speck);
   box-shadow: inset 0 0 0 1px var(--on-red);

diff --git a/og/wastewater.html b/og/wastewater.html
@@ -24,12 +24,12 @@
   .foot { display: flex; align-items: flex-end; justify-content: space-between; }
   .pay { display: flex; align-items: center; gap: 18px; font-size: 48px; font-weight: 600; }
   /* The whole image is the big amount; the dot's area is the small amount, to scale. */
-  .dot { width: calc(sqrt(1200 * 630 * 5075000 / 439000000) * 1px); aspect-ratio: 1; background: #141210; flex: none; }
+  .dot { width: calc(sqrt(1200 * 630 * 5075000 / 494000000) * 1px); aspect-ratio: 1; background: #141210; flex: none; }
   .url { font-size: 32px; opacity: 0.85; }
 </style>
 </head>
 <body>
-  <div class="big">$439 million<br>in a year</div>
+  <div class="big">$494 million<br>in a year</div>
   <div class="foot">
     <div class="pay"><div class="dot"></div>$5.1 million a year</div>
     <div class="url">ithacashare.org</div>

diff --git a/og/home.html b/og/home.html
@@ -24,7 +24,7 @@
   .foot { display: flex; align-items: flex-end; justify-content: space-between; }
   .pay { display: flex; align-items: center; gap: 18px; font-size: 48px; font-weight: 600; }
   /* The whole image is the big amount; the dot's area is the small amount, to scale. */
-  .dot { width: calc(sqrt(1200 * 630 * 5075000 / 439000000) * 1px); aspect-ratio: 1; background: #141210; flex: none; }
+  .dot { width: calc(sqrt(1200 * 630 * 5075000 / 494000000) * 1px); aspect-ratio: 1; background: #141210; flex: none; }
   .url { font-size: 32px; opacity: 0.85; }
 </style>
 </head>

diff --git a/og/survivor-services.html b/og/survivor-services.html
@@ -24,7 +24,7 @@
   .foot { display: flex; align-items: flex-end; justify-content: space-between; }
   .pay { display: flex; align-items: center; gap: 18px; font-size: 48px; font-weight: 600; }
   /* The whole image is the big amount; the dot's area is the small amount, to scale. */
-  .dot { width: calc(sqrt(1200 * 630 * 5075000 / 439000000) * 1px); aspect-ratio: 1; background: #141210; flex: none; }
+  .dot { width: calc(sqrt(1200 * 630 * 5075000 / 494000000) * 1px); aspect-ratio: 1; background: #141210; flex: none; }
   .url { font-size: 32px; opacity: 0.85; }
 </style>
 </head>
